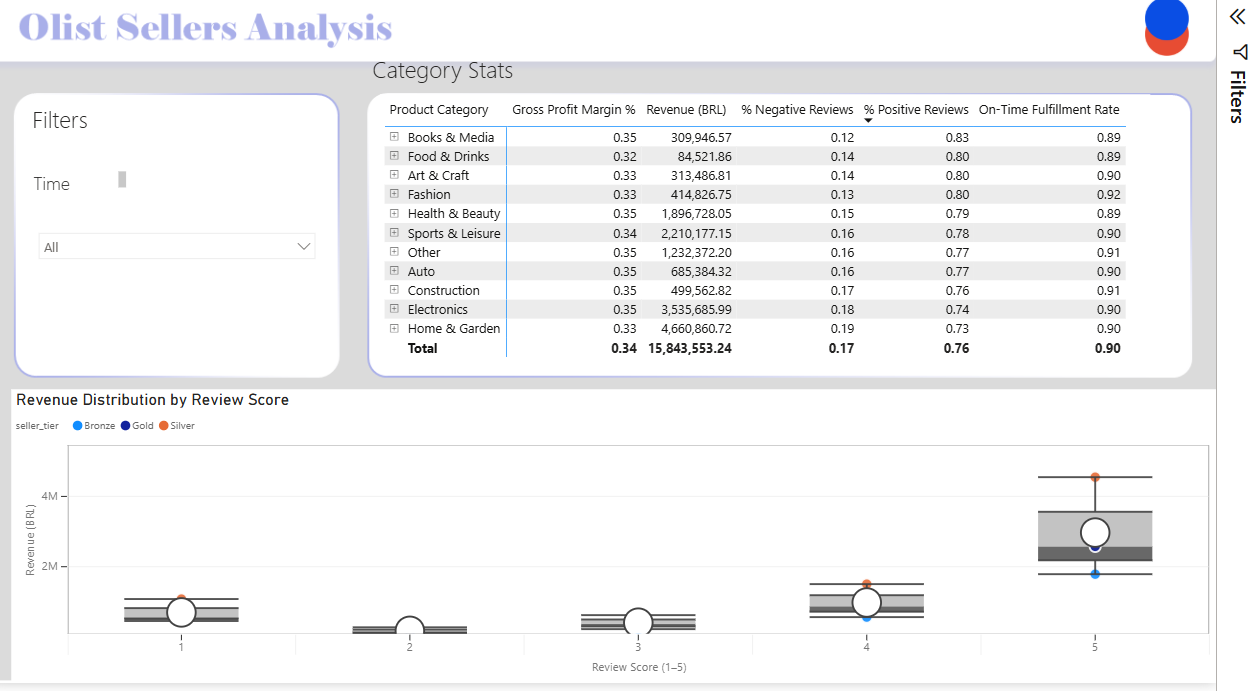
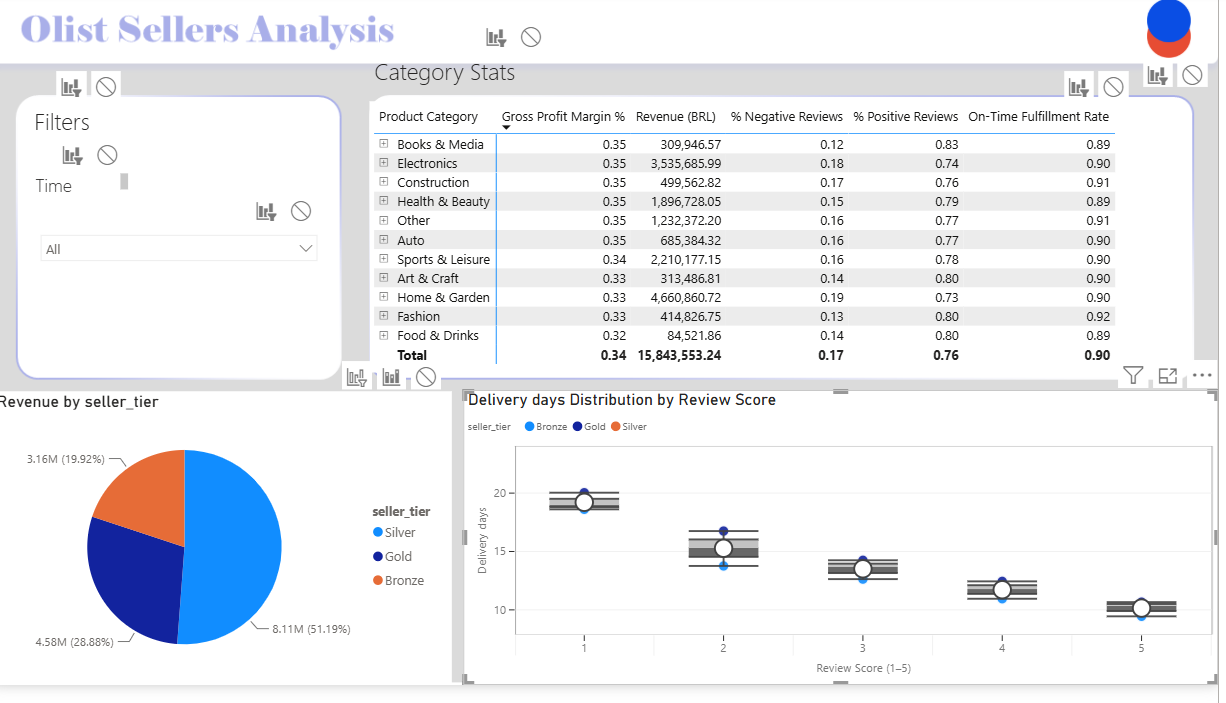
Report A: reframe box plot to delivery-days vs review score; revenue-share pie
- Box plot Y-axis revenue -> delivery_days: median falls 19d (score 1) to 10d (score 5), isolating fulfilment speed as the satisfaction driver

- Tier bar chart -> revenue-share pie (Silver ~51%, Gold ~29%, Bronze ~20%)

- Update README purpose/structure/insights/limitations + log CHANGE #2; refresh final image

diff --git a/README.md b/README.md
@@ -324,7 +324,7 @@ Takes about 1–2 minutes. Prints a row count per table when done.
 ![Olist Sellers Analysis](assets/Final_First_report.png)
 
 ### Purpose
-A single-page Power BI report built for Olist's **seller operations team**. It answers one core question: *which seller tiers and product categories are healthy, and which need intervention?* The report is designed to support tier-promotion / demotion decisions, category-level investment choices, and early identification of high-revenue sellers whose service quality is dragging the platform's reputation down.
+A single-page Power BI report built for Olist's **seller operations team**. It answers one tight, actionable question: *what operational lever actually moves customer satisfaction, and which tiers/categories carry the revenue at risk?* The report supports tier-level revenue prioritisation, category-level intervention, and — most importantly — pinpoints **delivery speed as the satisfaction driver** management can directly control.
 
 ### Structure
 One page, one global filter, and three coordinated visuals where the matrix drives the rest:
@@ -333,8 +333,8 @@ One page, one global filter, and three coordinated visuals where the matrix driv
 |---|---|
 | **Filter** — *Time Period* | Global slicer that cascades through every visual on the page. |
 | **Category Stats** (hierarchical matrix) | Primary analytical view **and the page's category filter**: clicking a *Product Category* row cross-filters the box plot (and other visuals) to that category — replacing a separate category slicer. Rows expand from *Product Category* → *Seller Tier*, columns show Gross Profit Margin %, Revenue (BRL), **% Negative Reviews (≤2★)**, **% Positive Reviews (≥4★)**, and On-Time Fulfillment Rate. Lets a manager see whether a category's profitability is driven by Bronze volume, Silver breadth, or Gold premium — and read satisfaction without averaging an ordinal scale. |
-| **Average Revenue & Gross Profit by Tier** (bar chart) | Quick-glance comparison of the three tiers, showing both revenue and gross profit side-by-side to expose margin compression. |
-| **Revenue Distribution by Review Score** (box plot) | Distribution of order-item revenue across review scores 1–5, colored by tier. Replaced an earlier scatter that incorrectly treated the ordinal review score as a continuous axis (see *Design evolution* below). |
+| **Revenue Share by Seller Tier** (pie) | Part-to-whole split of total revenue across Bronze / Silver / Gold. Shows that Silver sellers (~51%) carry the majority of platform revenue — so a satisfaction problem in the Silver tier is a *revenue* problem, not a long-tail one. |
+| **Delivery Days Distribution by Review Score** (box plot) | Distribution of delivery time (ratio-scale) across review scores 1–5 (ordinal), colored by tier. This is the report's headline visual: it isolates *delivery speed* as a controllable driver of satisfaction. Replaced an earlier scatter that incorrectly treated the ordinal review score as a continuous axis (see *Design evolution* below). |
 
 ### Design principles
 - **One theme, one page** — every visual is about *sellers*. No mixed messaging.
@@ -349,23 +349,24 @@ One page, one global filter, and three coordinated visuals where the matrix driv
 - **High-risk category flagging** — clicking a category row in the matrix filters the box plot, exposing categories whose revenue concentrates in low review scores — sellers who generate revenue while damaging the platform's marketplace reputation.
 
 ### What the report reveals
-- **Revenue concentrates in satisfied customers.** The box plot's median revenue rises monotonically from review score 1 to 5, with score 5 carrying a visibly higher and wider revenue distribution. Bad reviews are not just a service problem — they correlate with the *lowest-value* order items, so fixing satisfaction protects the most revenue at the top of the scale.
-- **Margins are flat across categories (≈0.32–0.35).** Because gross margin is simulated from a fixed cost ratio, category differences are price-dispersion artifacts, not real cost edges — the matrix correctly steers attention to *satisfaction* and *fulfillment* as the true differentiators.
-- **Satisfaction varies far more than margin.** % Positive ranges from ~0.73 (Home & Garden) to ~0.83 (Books & Media), and % Negative inversely — a real, actionable signal the flat margin column cannot provide.
+- **Delivery speed drives satisfaction — the headline finding.** In the box plot, median delivery time falls monotonically as review score rises: ~19 days at score 1 down to ~10 days at score 5. Slow fulfilment, not price or assortment, is the strongest controllable lever on customer satisfaction — a direct, operational call to action.
+- **The revenue at risk sits in the Silver tier.** The pie shows Silver sellers generate ~51% of revenue (Gold ~29%, Bronze ~20%). Combined with the delivery finding, a fulfilment fix targeted at Silver sellers protects the largest revenue block.
+- **Satisfaction varies far more than margin.** % Positive ranges from ~0.73 (Home & Garden) to ~0.83 (Books & Media), and % Negative inversely — a real, actionable signal the flat simulated-margin column (≈0.32–0.35) cannot provide.
 
 ### Known limitations (be honest at the defense)
 - **Gross margin is simulated.** `unit_cost = list_price × 0.60` in the DW (fixed 40% assumption). Cross-category margin differences of 1–2 points are price-dispersion artifacts, not real cost differentiation.
 - **No geographic dimension** in this report — regional analysis lives in Report B by design, but the seller team will sometimes ask "where are these sellers?" and the report has to defer.
-- **Tier counts not shown** — the bar chart tells you *average performance per tier*, not *how many sellers are in each tier*. A "Sellers per Tier" KPI card is on the TODO list to close this gap.
+- **Pie vs. bar trade-off.** The tier visual is a pie for an immediate part-to-whole read. With only three slices this is defensible, but a bar chart would allow more precise comparison; the choice prioritises the "Silver dominates" message over exact value reading.
+- **Delivery → satisfaction is correlational.** The box plot shows a strong monotonic association, not a proven cause; confounders (category, season) are not controlled in this single view.
 
 ### Design evolution — measurement scales & the "(Blank)" fix
 
-Part of this project is showing *how the visuals improved*, not just the final state. Visual 3 went through two corrections worth documenting.
+Part of this project is showing *how the visuals improved*, not just the final state. Visual 3 went through three steps worth documenting.
 
 **1 — From scatter to box plot (a measurement-scale fix).**
 The first version plotted *review score* (X) against *revenue* (Y) as a **scatter** ("relationship") chart. That is formally incorrect: a scatter relationship chart needs **two ratio-scale fact variables**, but `review_score` is **ordinal** — its order is meaningful, yet the gaps (3→4 vs 4→5) are not quantitatively equal. The old title also referenced the *average* of review scores, and the mean is only valid for interval/ratio data; ordinal data calls for median, mode, rank, percentiles, or a distribution view.
 
-The redesign uses a **box-and-whisker** chart — the course-correct way to compare the **distribution of a ratio-scale fact (revenue)** across an **ordinal dimension (review score)**, colored by seller tier. (Power BI ships no native box plot, so the certified *Box and Whisker chart* by MAQ Software was imported via **Get more visuals**.)
+The redesign uses a **box-and-whisker** chart — the course-correct way to compare the **distribution of a ratio-scale fact** across an **ordinal dimension (review score)**, colored by seller tier. (Power BI ships no native box plot, so the certified *Box and Whisker chart* by MAQ Software was imported via **Get more visuals**.)
 
 > The original scatter is preserved at [assets/report_a_v3_scatter.png](assets/report_a_v3_scatter.png) as a record of the correction.
 
@@ -377,4 +378,7 @@ The first box plot showed **six** categories on the review-score axis: `(Blank),
 
 - **Root cause:** `review_score` is nullable (`SMALLINT`, no `NOT NULL`). In `etl_load_dw.py`, reviews are attached with a **left join** (`fact.merge(rev, on="order_id", how="left")`). The Olist source has reviews for only ~99,224 of 112,650 order items, so every item from an un-reviewed order gets `review_score = NULL`. Power BI buckets all NULLs into one `(Blank)` category. It is **not a data error** — it faithfully represents *"items that never received a customer review."*
 - **Fix:** a **visual-level filter** on `review_score` unchecks `(Blank)` (keeps 1–5). This removes the noise from this chart only, leaves the NULLs available to other visuals, and is fully reversible — so the warehouse is never altered for a presentation concern.
+
+**3 — From *revenue* to *delivery days* (a sharper business question).**
+The box plot first compared **revenue** across review scores — valid, but it only restated a known correlation (happy customers spend a bit more). Swapping the Y-axis to **delivery days** reframes the same chart around a lever management actually controls: the monotonic drop from ~19 days (score 1) to ~10 days (score 5) makes *fulfilment speed* the headline driver of satisfaction. Same measurement-scale logic (ratio fact across ordinal dimension), far more actionable insight.
 
